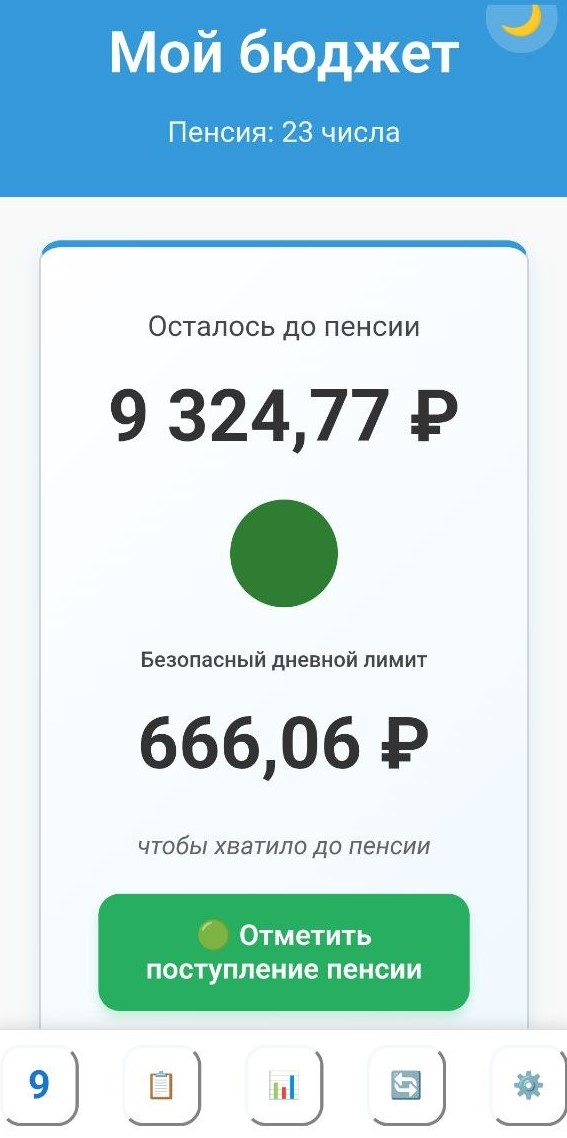
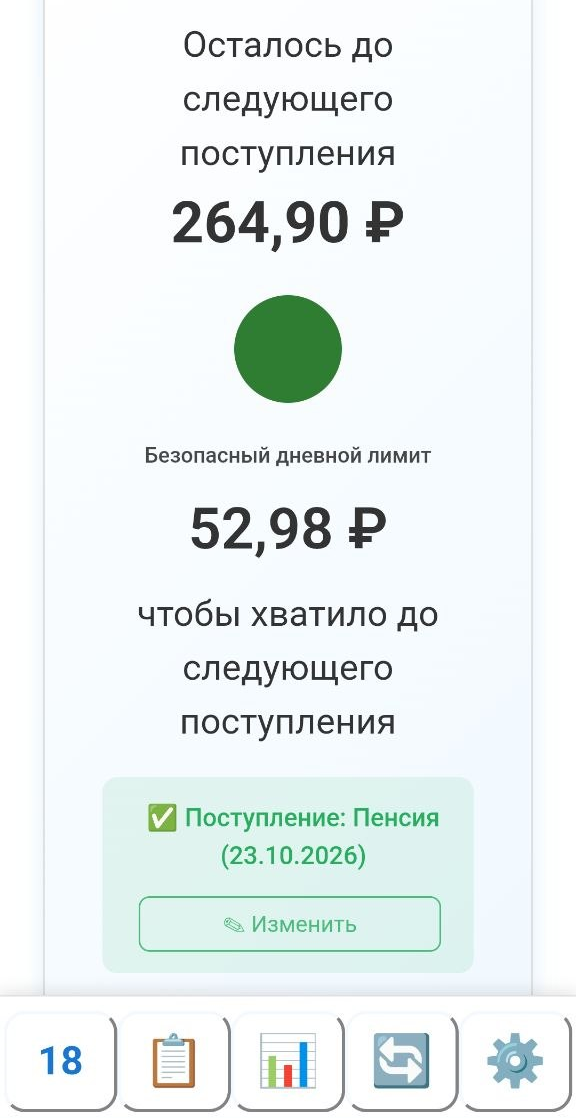
docs: обновить Руководство пользователя для версии 2.3
- Обновлены заголовок страницы и бейдж версии с 2.2 на 2.3
- Добавлен новый раздел 5.1 «Анализ расходов (v2.3)» с описанием свёрнутых
  категорий, выравнивания сумм и мобильных подсказок по долгому нажатию
- Добавлен новый скриншот screen-analysis.png
- Добавлены полезные подсказки (tips) про удобный ввод чисел с пробелами
  в настройках и про прозрачную детализацию фиксированных платежей в «Обзоре»

diff --git a/guide.html b/guide.html
@@ -4,7 +4,7 @@
 <head>
     <meta charset="UTF-8">
     <meta name="viewport" content="width=device-width, initial-scale=1.0">
-    <title>Руководство пользователя — Мой бюджет (v2.2)</title>
+    <title>Руководство пользователя — Мой бюджет (v2.3)</title>
     <style>
         :root {
             --bg-primary: #f8f9fa;
@@ -138,7 +138,7 @@
 
     <div class="container">
         <h1>📘 Руководство пользователя</h1>
-        <div class="version-badge">Актуально для версии 2.2</div>
+        <div class="version-badge">Актуально для версии 2.3</div>
 
         <h2>1. Начало работы</h2>
         <p>При первом запуске приложение предложит вам пройти краткую настройку. Если вы пропустили этот шаг, вы всегда
@@ -169,6 +169,12 @@
                 суммы и дня месяца.</li>
         </ul>
 
+        <div class="tip">
+            💡 <strong>Удобный ввод чисел (v2.3):</strong> В полях настроек (сумма пенсии, НЗ, начальный остаток)
+            можно вводить числа в привычном формате — с пробелами и запятыми, например
+            <code>34 714,73</code>. Приложение корректно распознает такие значения и не допустит ошибок расчёта.
+        </div>
+
         <h2>3. Главный экран</h2>
         <p>На главном экране вы видите ваш <strong>дневной лимит</strong> и цветовой индикатор:</p>
 
@@ -183,7 +189,8 @@
 
         <div class="tip">💡 <strong>Важно:</strong> Когда вы фактически получите деньги, нажмите большую кнопку
             <strong>«✅ Поступление: [Доход]»</strong>. Это запустит текущий период и перенесёт нераспределённый остаток
-            с прошлого месяца.</div>
+            с прошлого месяца.
+        </div>
 
         <h2>4. Учёт операций</h2>
         <h3>📝 Запись расхода</h3>
@@ -225,6 +232,39 @@
             <li><strong>Архивация:</strong> Свайпните по записи или используйте меню, чтобы скрыть старые записи без
                 удаления. Архивные записи можно просмотреть и восстановить в любой момент.</li>
         </ul>
+
+        <h2>5.1. Анализ расходов (v2.3)</h2>
+        <p>Вкладка <strong>«Анализ»</strong> показывает детальную структуру ваших расходов по категориям и подкатегориям
+            за выбранный период. Это мощный инструмент для понимания, куда именно уходят деньги.</p>
+
+        <ul>
+            <li><strong>Свёрнутые категории по умолчанию:</strong> чтобы не перегружать экран, все категории изначально
+                свёрнуты. Нажмите на стрелку или название категории, чтобы раскрыть список подкатегорий.</li>
+            <li><strong>Выравнивание сумм:</strong> суммы расходов строго выровнены по правому краю — их легко
+                сравнивать даже при длинных названиях категорий.</li>
+            <li><strong>Процент от категории:</strong> рядом с каждой суммой указан её процент от общих расходов за
+                период.</li>
+        </ul>
+
+        <img src="docs/screenshots/screen-analysis.png" class="screenshot" alt="Вкладка Анализ">
+        <p class="screenshot-caption">Рис. 4. Вкладка «Анализ» со свёрнутыми категориями и выравниванием сумм (v2.3)</p>
+
+        <div class="tip">
+            💡 <strong>Мобильные подсказки:</strong> на смартфоне долгое нажатие (около 0.5 секунды) на подкатегорию или
+            товар
+            в режиме «Анализ» покажет всплывающую подсказку с процентом от родительской категории — удобно для быстрой
+            оценки
+            структуры трат без необходимости вчитываться в цифры.
+        </div>
+
+        <div class="tip">
+            📊 <strong>Прозрачная детализация в «Обзоре»:</strong> при клике на категорию в режиме «Обзор» (вкладка
+            «Статистика»)
+            фиксированные и обычные платежи теперь показываются раздельно. Вы сразу видите, сколько уходит на
+            обязательные
+            платежи (кредиты, подписки), а сколько — на повседневные траты. Сумма «Итого» считается честно, только по
+            выбранной группе.
+        </div>
 
         <h2>6. Статистика и сверка</h2>
         <h3>📊 Статистика</h3>

diff --git a/sw.js b/sw.js
@@ -18,6 +18,7 @@ const FILES_TO_CACHE = [
   './docs/screenshots/screen-stats.png',
   './docs/screenshots/screen-reconcile.png',
   './docs/screenshots/screen-settings.png',
+  './docs/screenshots/screen-analysis.png',
 ];
 
 // Установка: кэшируем все файлы
